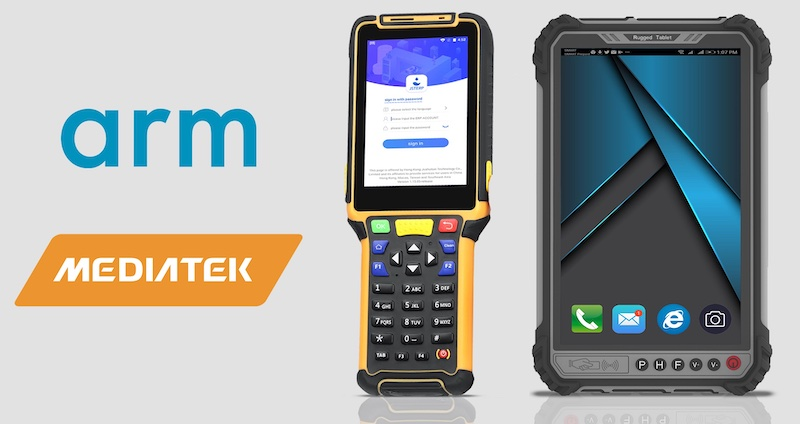
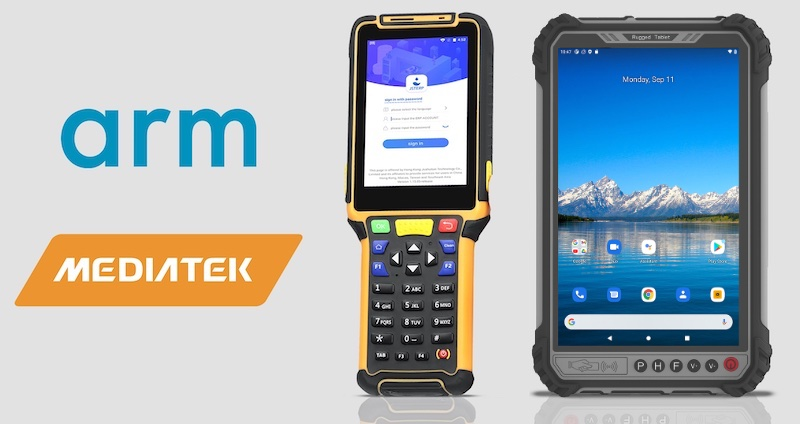
Remove SOM, update Handheld image.

Changed region(s): [[0.6875, 0.0307, 0.9688, 0.9505], [0.6562, 0.8892, 0.6875, 0.9198]]

diff --git a/docs/source/index.html b/docs/source/index.html
@@ -157,7 +157,7 @@
                                 <div class="welcome_div">
                                     <h1>Chipsee Documentation</h1>
                                     <p style="font-size: 20px!important;">
-                                        Chipsee offers industrial PCs based on ARM and X86 CPUs, industrial displays, and various SOM.
+                                        Chipsee offers industrial PCs based on ARM and X86 CPUs, industrial displays.
                                         <br>
                                         Our offer also includes customized products that can be tailor-made to fit your needs.
                                     </p>
@@ -272,18 +272,6 @@
                                     </div>
                                     <div class="sd-col sd-d-flex-row sd-col-12 sd-col-xs-12 sd-col-sm-6 sd-col-md-6 sd-col-lg-4 docutils">
                                         <div class="sd-card sd-sphinx-override sd-w-100 sd-shadow-sm sd-card-hover sd-text-center border docutils">
-                                            <img alt="card-img-top" class="sd-card-img-top" src="_images/Product_6_Chipsee.jpg"/>
-                                            <div class="sd-card-body docutils">
-                                                <p class="card-head">
-                                                    SOM <br>
-                                                    Systems on Module
-                                                </p>
-                                            </div>
-                                            <a class="sd-stretched-link" href="SOM/index.html"></a>
-                                        </div>
-                                    </div>
-                                    <div class="sd-col sd-d-flex-row sd-col-12 sd-col-xs-12 sd-col-sm-6 sd-col-md-6 sd-col-lg-4 docutils">
-                                        <div class="sd-card sd-sphinx-override sd-w-100 sd-shadow-sm sd-card-hover sd-text-center border docutils">
                                             <img alt="card-img-top" class="sd-card-img-top" src="_images/Product_5_Chipsee.jpg"/>
                                             <div class="sd-card-body docutils">
                                                 <p class="card-head">
@@ -310,7 +298,7 @@
                 <div class="md-footer-meta__inner md-grid">
                     <div class="md-footer-copyright">
                         <div class="md-footer-copyright__highlight" style="font-size: .7rem">
-                            &#169; Copyright 2021,
+                            &#169; Copyright 2023,
                             <a href="https://chipsee.com">Chipsee</a>.
 
                         </div>

diff --git a/docs/source/_templates/header.html b/docs/source/_templates/header.html
@@ -40,16 +40,6 @@
                 <a class="nav-link" href="{{ pathto('Displays/index.html', 1) }}">Industrial Display</a>
               </li>
             {% endif %}
-
-            {% if s_pg_name == "SOM" %}
-              <li class="nav-item">
-                <a class="nav-link" style="color:#fff!important;" href="{{ pathto('SOM/index.html', 1) }}">SOM (Systems on Module)</a>
-              </li>
-            {% else %}
-              <li class="nav-item">
-                <a class="nav-link" href="{{ pathto('SOM/index.html', 1) }}">SOM (Systems on Module)</a>
-              </li>
-            {% endif %}
         </ul>
 
           {%- if sourcename == 'index.rst.txt' %}

diff --git a/docs/source/_templates/sidebar.html b/docs/source/_templates/sidebar.html
@@ -19,9 +19,6 @@
       <a href="{{ pathto('Displays/index.html', 1) }}">Industrial Display</a>
     </li>
     <li class="list-group-item">
-      <a href="{{ pathto('SOM/index.html', 1) }}">SOM (Systems on Module)</a>
-    </li>
-    <li class="list-group-item">
       <a href="{{ pathto('TutorialGuide/index.html', 1) }}">Tutorials and Guides</a>
     </li>
   </ul>

diff --git a/docs/source/conf.py b/docs/source/conf.py
@@ -58,7 +58,7 @@ html_theme = "sphinx_material"
 html_logo = "_static/images/logo-chipsee-white.png"
 html_favicon = "_static/images/favicon.webp"
 # Set link name generated in the top bar.
-html_title = "Home"
+html_title = "Chipsee"
 # Material theme options (see theme.conf for more information)
 html_theme_options = {
     # Set the name of the project to appear in the navigation.

diff --git a/docs/source/index.rst b/docs/source/index.rst
@@ -12,7 +12,7 @@ Home
 
             <div class="welcome_div">
                 <h1>Chipsee Documentation</h1>
-                <p style="font-size: 20px!important;">Chipsee offers industrial PCs based on ARM and X86 CPUs, industrial displays, and various SOM.</p>
+                <p style="font-size: 20px!important;">Chipsee offers industrial PCs based on ARM and X86 CPUs, industrial displays.</p>
                 <p style="font-size: 20px!important;">Our offer also includes customized products that can be tailor-made to fit your needs.</p>
             </div>
 
@@ -99,21 +99,6 @@ Home
 
     .. grid-item-card::
         :columns: 12 6 6 4
-        :link: som
-        :link-type: ref
-        :img-top: /Media/homepage/Product_6_Chipsee.jpg
-        :class-card: border
-        :text-align: center
-
-        .. raw:: html
-
-            <p class="card-head">
-                <b>SOM</b> <br> Systems on Module
-            </p>
-
-
-    .. grid-item-card::
-        :columns: 12 6 6 4
         :link: mipcg
         :link-type: ref
         :img-top: /Media/homepage/Product_5_Chipsee.jpg
@@ -138,12 +123,6 @@ Home
    :hidden:
 
    Industrial Display <Displays/index>
-
-.. toctree::
-   :maxdepth: 1
-   :hidden:
-
-   SOM (Systems on Module) <SOM/index>
 
 .. toctree::
    :maxdepth: 1
